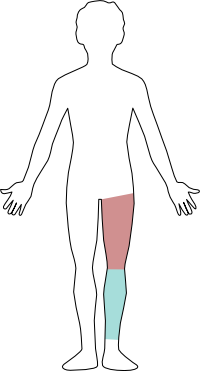
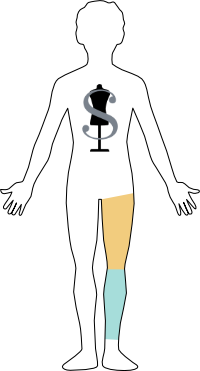
Leg UI functional

Changed region(s): [[0.51, 0.504, 0.69, 0.7412], [0.39, 0.2075, 0.6, 0.4151]]

diff --git a/GUI3.py b/GUI3.py
@@ -27,6 +27,10 @@ class Window(Frame):
             2: "left_thigh",
         }
 
+        shift = 0
+        xshift = shift
+        yshift = shift
+
         # Window settings 
         Frame.__init__(self, master)     
         self.master = master
@@ -40,21 +44,21 @@ class Window(Frame):
 
         # Background image of the body. 
         img = ImageTk.PhotoImage(Image.open("media/body3.png"))
-        logo = ImageTk.PhotoImage(Image.open("media/logo.png"))
+        #logo = ImageTk.PhotoImage(Image.open("media/logo.png"))
         lab = Label(self.master, image=img)
-        log = Label(self.master, image=logo)
-        log.place(x=100, y=40)
-        lab.place(x=0, y=-40, relwidth=1, relheight=1)
+        #log = Label(self.master, image=logo)
+        #log.place(x=100, y=40)
+        lab.place(x=0+xshift, y=-40+yshift, relwidth=1, relheight=1)
 
         text = Text(self.master, height=2, width=30, font=('Verdana', 10))
         text.insert(INSERT, self.pouch_name + " selected")
-        text.place(x=525, y=100)
+        text.place(x=525+xshift, y=100+yshift)
 
         self.text = text
 
         # Create the inflate/deflate buttons.
         inflateButton = Button(self.master, text="Activate", command=self.activatePump, bg="firebrick", fg="white")
-        deflateButton = Button(self.master, text="Reset", command=self.resetPouch, bg="white", fg="black")
+        deflateButton = Button(self.master, text="Reset", command=self.resetPouch, bg="firebrick", fg="white")
         #self.disableButton(deflateButton)
 
         # Create the pouch selection buttons. 
@@ -66,15 +70,15 @@ class Window(Frame):
         self.slider[self.pouch_name] = gscale.get()
 
         # Place all the buttons. 
-        inflateButton.place(x=340, y=400, height=60, width=60)
-        deflateButton.place(x=400, y=400, height=60, width=60)
-        left_leg.place(x=430, y=320)
-        left_thigh.place(x=440, y=240)
+        inflateButton.place(x=340+xshift, y=400+yshift, height=60, width=60)
+        deflateButton.place(x=400+xshift, y=400+yshift, height=60, width=60)
+        left_leg.place(x=430+xshift, y=320+yshift)
+        left_thigh.place(x=440+xshift, y=240+yshift)
 
         self.activateButton = inflateButton
         self.resetButton = deflateButton
 
-        gscale.place(x=500, y=400, height=40, width=100)
+        gscale.place(x=500+xshift, y=400+yshift, height=40, width=100)
 
         self.master.mainloop()
 
@@ -104,14 +108,15 @@ class Window(Frame):
         self.write("{0} to size {1}".format(self.pouch_name, pouch_size))
         self.disableButton(self.activateButton)
         self.controller.inflate_pouch_to_size(self.pouch_name, pouch_size)
-        #self.activateButton.update()
         self.enableButton(self.activateButton)
 
     # Deflates the pouch.
     def resetPouch(self):
-        # Ensure that we aren't inflating already.
-        self.controller.reset_pouch(self.pouch_name) 
-    
+        # Ensure that we aren't inflating already 
+        self.disableButton(self.resetButton)
+        self.controller.reset_pouch(self.pouch_name)
+        self.enableButton(self.resetButton)
+
     def disableButton(self, button: Button):
         button.config(state=DISABLED, bg="#ffffff", fg="#000000")
         button.update()
